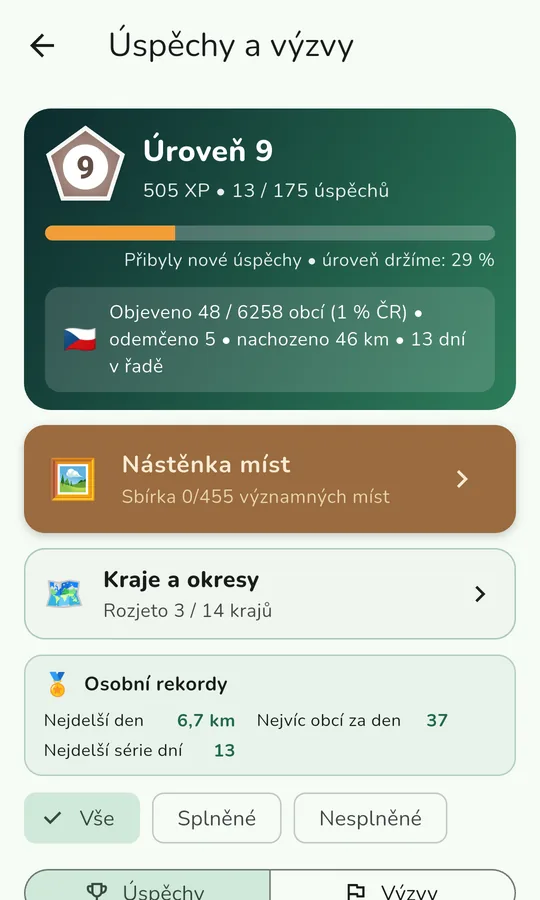
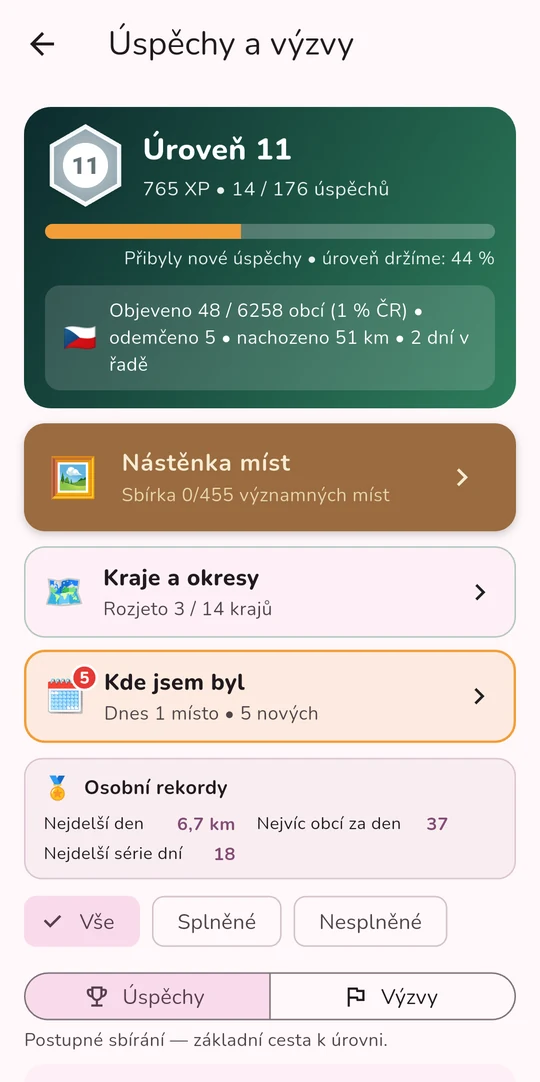
Nove snimky z aplikace (Milesovka, nocni herni mapa, Uspechy 11) misto U Berusky; jednotne menu na vsech strankach; pryc zdvojeny prepinac rezimu

diff --git a/objevitel/index.html b/objevitel/index.html
@@ -44,7 +44,7 @@
       <p class="lead">Odkrývejte mlhu, sbírejte místa a obce. Mapa se vybarvuje podle toho, kudy jste prošli – a je hned vidět, kde jste ještě nebyli.</p>
       <ul class="stitky" aria-label="V kostce">
       <li>455 malovaných míst</li>
-      <li>175 úspěchů</li>
+      <li>176 úspěchů</li>
       <li>měsíční výzvy</li>
       <li>6 258 erbů</li>
       <li>fotovýpravy</li>
@@ -53,11 +53,6 @@
   </section>
 
   <div class="uzky">
-  <nav class="rezimy-prepinac" aria-label="Režimy aplikace">
-    <a href="/cestovatel/">🧭 Cestovatel</a>
-    <a href="/objevitel/" aria-current="page">🌫 Objevitel</a>
-    <a href="/dobyvatel/">🚩 Dobyvatel</a>
-  </nav>
 <div id="ukazkaPruh" class="ukazka-pruh" hidden>
     UKÁZKA – zobrazená čísla jsou vymyšlená, nejde o&nbsp;skutečná data.
   </div>
@@ -78,7 +73,7 @@
     </div>
     <div class="karta">
       <span class="ikona" aria-hidden="true">🏆</span>
-      <h3>175 úspěchů a&nbsp;výzvy</h3>
+      <h3>176 úspěchů a&nbsp;výzvy</h3>
       <p>Úrovně, osobní rekordy, měsíční mise ve&nbsp;třech obtížnostech
       a&nbsp;roční ohlédnutí za&nbsp;tím, co jste prošli.</p>
     </div>
@@ -98,11 +93,11 @@
 
   <div class="snimky">
     <figure class="snimek">
-      <img src="/img/app-herni.webp" alt="Herní mapa v noci: kreslená krajina, světla vesnic a postavička hráče" width="540" height="900" loading="lazy">
+      <img src="/img/app-herni.webp?v=3" alt="Herní mapa v noci: kreslená krajina, světla vesnic a postavička hráče" width="540" height="1082" loading="lazy">
       <figcaption>Herní mapa – tady v noci</figcaption>
     </figure>
     <figure class="snimek">
-      <img src="/img/app-uspechy.webp" alt="Obrazovka Úspěchy a výzvy s úrovní, rekordy a postupem" width="540" height="900" loading="lazy">
+      <img src="/img/app-uspechy.webp?v=3" alt="Obrazovka Úspěchy a výzvy s úrovní, rekordy a postupem" width="540" height="1082" loading="lazy">
       <figcaption>Úspěchy, výzvy a rekordy</figcaption>
     </figure>
   </div>

diff --git a/index.html b/index.html
@@ -121,7 +121,7 @@
       <div class="karta">
         <span class="ikona" aria-hidden="true">🏆</span>
         <h3>Úspěchy a výzvy</h3>
-        <p>175 úspěchů, měsíční mise ve třech obtížnostech, osobní rekordy
+        <p>176 úspěchů, měsíční mise ve třech obtížnostech, osobní rekordy
         a sbírka 455 malovaných míst.</p>
       </div>
       <div class="karta">
@@ -150,15 +150,15 @@
     <h2>Jak to vypadá</h2>
     <div class="snimky">
       <figure class="snimek">
-        <img src="/img/app-turisticka.webp" alt="Turistická mapa s vrstevnicemi a značenými trasami" width="540" height="900" loading="lazy">
+        <img src="/img/app-turisticka.webp?v=3" alt="Turistická mapa s vrstevnicemi a značenými trasami" width="540" height="1082" loading="lazy">
         <figcaption>Turistická mapa se značkami KČT</figcaption>
       </figure>
       <figure class="snimek">
-        <img src="/img/app-herni.webp" alt="Herní mapa v noci: kreslená krajina, světla vesnic a postavička hráče" width="540" height="900" loading="lazy">
+        <img src="/img/app-herni.webp?v=3" alt="Herní mapa v noci: kreslená krajina, světla vesnic a postavička hráče" width="540" height="1082" loading="lazy">
         <figcaption>Herní mapa – tady v noci</figcaption>
       </figure>
       <figure class="snimek">
-        <img src="/img/app-uspechy.webp" alt="Obrazovka Úspěchy a výzvy s úrovní, rekordy a postupem" width="540" height="900" loading="lazy">
+        <img src="/img/app-uspechy.webp?v=3" alt="Obrazovka Úspěchy a výzvy s úrovní, rekordy a postupem" width="540" height="1082" loading="lazy">
         <figcaption>Úspěchy, výzvy a rekordy</figcaption>
       </figure>
     </div>

diff --git a/cestovatel/index.html b/cestovatel/index.html
@@ -53,11 +53,6 @@
   </section>
 
   <div class="uzky">
-  <nav class="rezimy-prepinac" aria-label="Režimy aplikace">
-    <a href="/cestovatel/" aria-current="page">🧭 Cestovatel</a>
-    <a href="/objevitel/">🌫 Objevitel</a>
-    <a href="/dobyvatel/">🚩 Dobyvatel</a>
-  </nav>
 <div id="ukazkaPruh" class="ukazka-pruh" hidden>
     UKÁZKA – zobrazená čísla jsou vymyšlená, nejde o&nbsp;skutečná data.
   </div>
@@ -93,7 +88,7 @@
 
   <div class="snimky">
     <figure class="snimek">
-      <img src="/img/app-turisticka.webp" alt="Turistická mapa s vrstevnicemi a značenými trasami" width="540" height="900" loading="lazy">
+      <img src="/img/app-turisticka.webp?v=3" alt="Turistická mapa s vrstevnicemi a značenými trasami" width="540" height="1082" loading="lazy">
       <figcaption>Turistická mapa se značkami KČT</figcaption>
     </figure>
   </div>

diff --git a/zebricek/index.html b/zebricek/index.html
@@ -123,8 +123,9 @@ th, td { padding: 8px 6px; }
       <a href="/cestovatel/">Cestovatel</a>
       <a href="/objevitel/">Objevitel</a>
       <a href="/dobyvatel/">Dobyvatel</a>
-      <a href="/zebricek/">Žebříček</a>
+      <a href="/zebricek/" aria-current="page">Žebříček</a>
       <a href="/ucet/">Můj Okolník</a>
+      <a href="/firmy/" class="mimo-mobil">Pro firmy</a>
       <a href="/kontakt/">Kontakt</a>
       <a href="/soukromi/" class="mimo-mobil">Soukromí</a>
     </nav>

diff --git a/dobyvatel/index.html b/dobyvatel/index.html
@@ -156,9 +156,10 @@
       <a href="/">Domů</a>
       <a href="/cestovatel/">Cestovatel</a>
       <a href="/objevitel/">Objevitel</a>
-      <a href="/dobyvatel/">Dobyvatel</a>
+      <a href="/dobyvatel/" aria-current="page">Dobyvatel</a>
       <a href="/zebricek/">Žebříček</a>
       <a href="/ucet/">Můj Okolník</a>
+      <a href="/firmy/" class="mimo-mobil">Pro firmy</a>
       <a href="/kontakt/">Kontakt</a>
       <a href="/soukromi/" class="mimo-mobil">Soukromí</a>
     </nav>

diff --git a/ucet/index.html b/ucet/index.html
@@ -123,7 +123,8 @@
       <a href="/objevitel/">Objevitel</a>
       <a href="/dobyvatel/">Dobyvatel</a>
       <a href="/zebricek/">Žebříček</a>
-      <a href="/ucet/">Můj Okolník</a>
+      <a href="/ucet/" aria-current="page">Můj Okolník</a>
+      <a href="/firmy/" class="mimo-mobil">Pro firmy</a>
       <a href="/kontakt/">Kontakt</a>
       <a href="/soukromi/" class="mimo-mobil">Soukromí</a>
     </nav>

diff --git a/firmy/index.html b/firmy/index.html
@@ -32,8 +32,9 @@
       <a href="/dobyvatel/">Dobyvatel</a>
       <a href="/zebricek/">Žebříček</a>
       <a href="/ucet/">Můj Okolník</a>
-      <a href="/firmy/" class="mimo-mobil">Pro firmy</a>
+      <a href="/firmy/" class="mimo-mobil" aria-current="page">Pro firmy</a>
       <a href="/kontakt/">Kontakt</a>
+      <a href="/soukromi/" class="mimo-mobil">Soukromí</a>
     </nav>
   </div>
 </header>

diff --git a/soukromi/index.html b/soukromi/index.html
@@ -40,8 +40,8 @@
       <a href="/zebricek/">Žebříček</a>
       <a href="/ucet/">Můj Okolník</a>
       <a href="/firmy/" class="mimo-mobil">Pro firmy</a>
-      <a href="/soukromi/" class="mimo-mobil" aria-current="page">Soukromí</a>
       <a href="/kontakt/">Kontakt</a>
+      <a href="/soukromi/" class="mimo-mobil" aria-current="page">Soukromí</a>
     </nav>
   </div>
 </header>

diff --git a/kontakt/index.html b/kontakt/index.html
@@ -26,7 +26,8 @@
       <a href="/dobyvatel/">Dobyvatel</a>
       <a href="/zebricek/">Žebříček</a>
       <a href="/ucet/">Můj Okolník</a>
-      <a href="/kontakt/">Kontakt</a>
+      <a href="/firmy/" class="mimo-mobil">Pro firmy</a>
+      <a href="/kontakt/" aria-current="page">Kontakt</a>
       <a href="/soukromi/" class="mimo-mobil">Soukromí</a>
     </nav>
   </div>

diff --git a/smazani-uctu/index.html b/smazani-uctu/index.html
@@ -46,6 +46,7 @@
       <a href="/dobyvatel/">Dobyvatel</a>
       <a href="/zebricek/">Žebříček</a>
       <a href="/ucet/">Můj Okolník</a>
+      <a href="/firmy/" class="mimo-mobil">Pro firmy</a>
       <a href="/kontakt/">Kontakt</a>
       <a href="/soukromi/" class="mimo-mobil">Soukromí</a>
     </nav>
